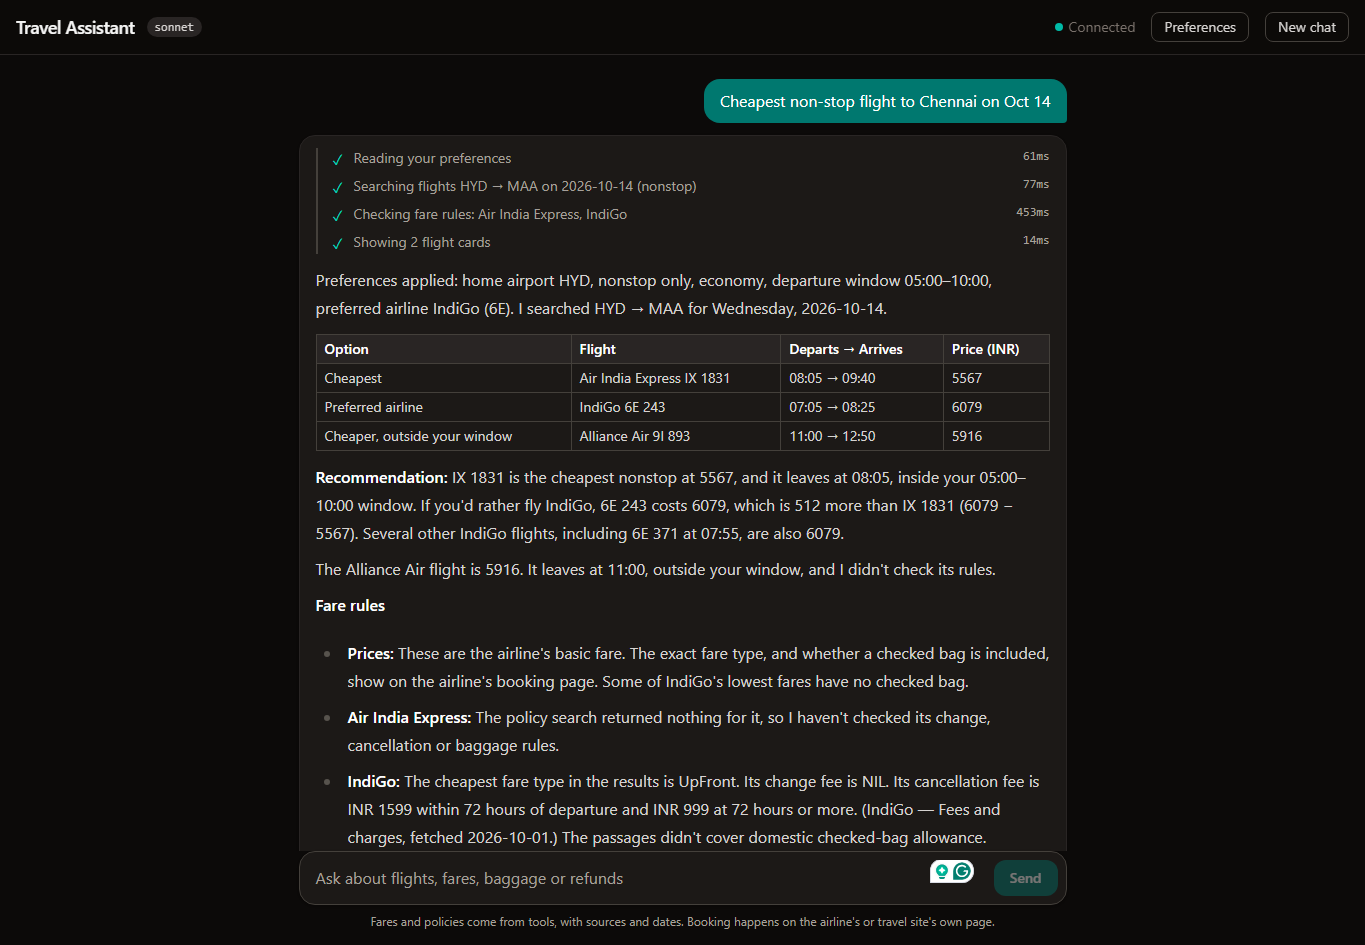
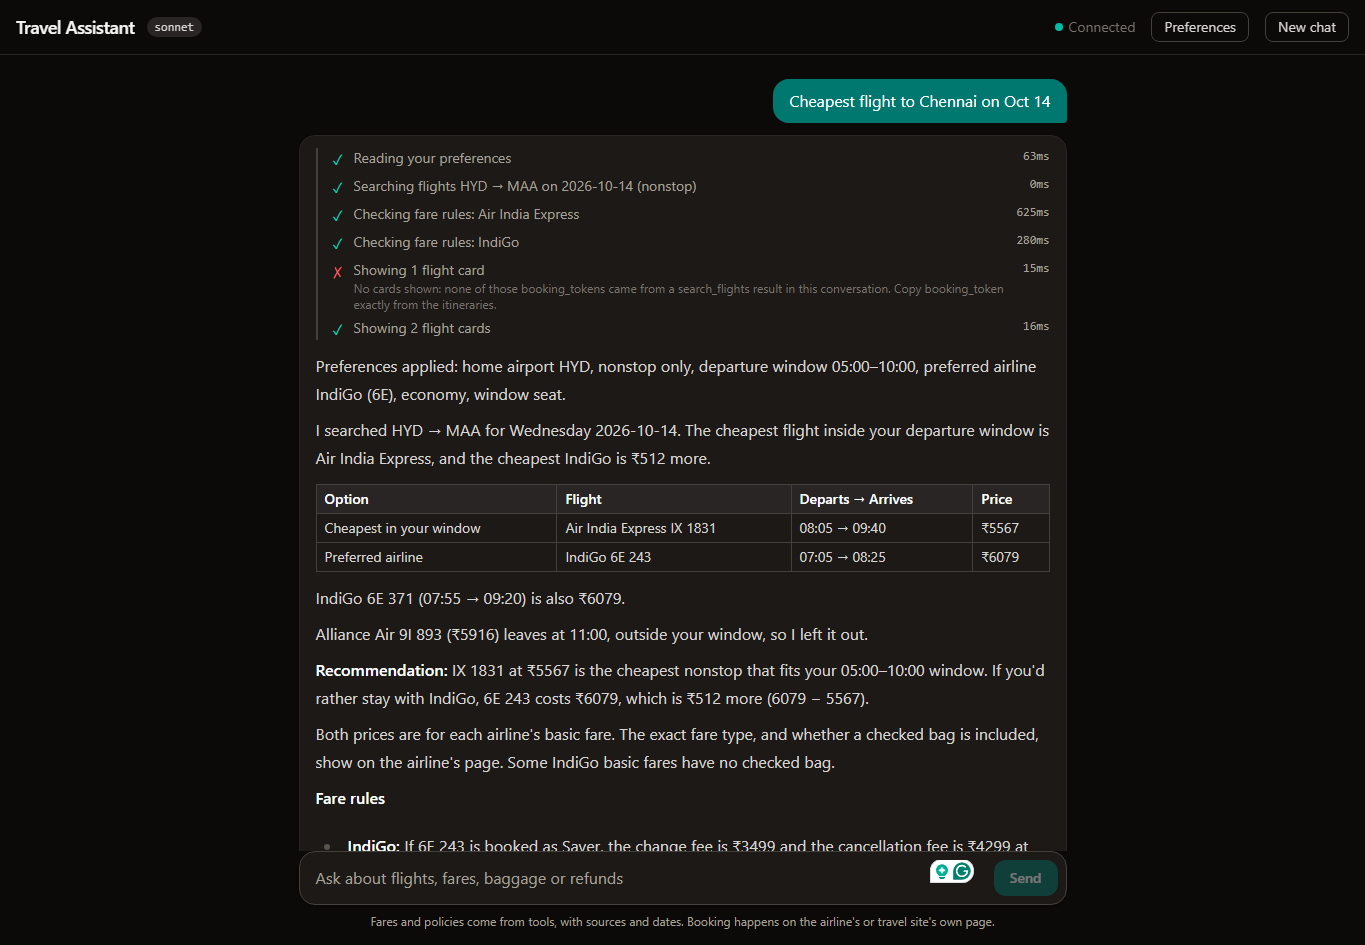
fix: key flight cards by flight number; shorter search cache; new screenshots
From the latest real run:
- The model garbled a long booking_token, so its first show_flight_cards call
  was rejected (grounding worked, but cost a retry). show_flight_cards now takes
  flight numbers ("6E 243", "6E 243, 6E 512"), matched against this
  conversation's search results (latest search wins); booking_token still works.
  Duplicate itineraries in one call collapse to one card.
- The search was a cache hit ~29 min old, so its cards were born nearly expired.
  Default search cache is now 20 min, leaving 10+ min on the ~30-min links.
- README: preferences panel screenshot, refreshed answer/cards screenshots
  (Saver fee now correct), caption explaining the rejected card step.

Claude-Session: https://claude.ai/code/session_01QP7JMiB12MUZHodQPm79G6

Changed region(s): [[0.2154, 0.2455, 0.7692, 0.9206], [0.4923, 0.0614, 0.6462, 0.1534], [0.4308, 0.2148, 0.4615, 0.2455]]

diff --git a/agent/src/travel_agent/ui_tools.py b/agent/src/travel_agent/ui_tools.py
@@ -1,13 +1,14 @@
 """Display-only tools for the web UI, served in-process (Claude Agent SDK MCP server "ui").
 
-show_flight_cards: the agent picks which itineraries to show and adds a short label/note. Every
-fact on a card (airline, times, price, booking token) is filled in from the actual search_flights
-result. The agent can't put a wrong price or an invented booking link on a card: unknown tokens
-are rejected. Booking links themselves are fetched only when the user clicks.
+show_flight_cards: the agent picks which itineraries to show (by flight number, or booking token)
+and adds a short label/note. Every fact on a card (airline, times, price, booking token) is filled in
+from the actual search_flights result. The agent can't put a wrong price or an invented booking link
+on a card: flights that aren't in this conversation's results are rejected. Booking links themselves are fetched only when the user clicks.
 """
 from __future__ import annotations
 
 import json
+import re
 from collections.abc import Callable
 from typing import Any
 
@@ -43,11 +44,33 @@ def _texts(response: Any) -> list[str]:
     return []
 
 
+def _norm_flights(text: str) -> str:
+    """'6E 243 + 6E-500' -> '6E243,6E500' so flight numbers compare regardless of spacing."""
+    return ",".join(a + n for a, n in re.findall(r"\b([A-Z0-9]{2})[\s-]?(\d{1,4})\b", text.upper()))
+
+
 class SearchRegistry:
     """Itineraries seen in this session's search_flights results, keyed by booking_token."""
 
     def __init__(self) -> None:
         self.by_token: dict[str, dict[str, Any]] = {}
+
+    def find(self, booking_token: str = "", flight: str = "") -> tuple[str, dict[str, Any]] | None:
+        """Look up by exact booking_token, else by flight number(s) (latest search wins).
+
+        Booking tokens are long opaque strings and models occasionally mangle them when copying,
+        while flight numbers are short and also unique within one search."""
+        token = booking_token.strip()
+        if token in self.by_token:
+            return token, self.by_token[token]
+        want = _norm_flights(flight)
+        if not want:
+            return None
+        for tok, entry in reversed(self.by_token.items()):
+            segs = entry["itinerary"].get("segments") or []
+            if _norm_flights(" ".join(str(x.get("flight_number", "")) for x in segs)) == want:
+                return tok, entry
+        return None
 
     def record(self, tool_input: dict[str, Any], tool_response: Any) -> int:
         added = 0
@@ -76,7 +99,8 @@ def build_ui_server(registry: SearchRegistry, emit: Callable[[dict], Any]):
     @tool(
         "show_flight_cards",
         "Show 1-3 shortlisted flights to the user as cards with a 'See booking options' button. "
-        "Pass each itinerary's booking_token exactly as search_flights returned it, plus a short label "
+        "Identify each itinerary by its flight number(s) as search_flights returned them (e.g. '6E 243', "
+        "or '6E 243, 6E 512' for a connection); booking_token also works if copied exactly. Add a short label "
         "(e.g. 'Cheapest', 'Best timing') and a one-line note (e.g. the cancellation fee with its source). "
         "Airline, times and price are filled in from the search result automatically.",
         {
@@ -87,11 +111,11 @@ def build_ui_server(registry: SearchRegistry, emit: Callable[[dict], Any]):
                     "items": {
                         "type": "object",
                         "properties": {
+                            "flight": {"type": "string", "description": "flight number(s), e.g. '6E 243'"},
                             "booking_token": {"type": "string"},
                             "label": {"type": "string", "maxLength": 40},
                             "note": {"type": "string", "maxLength": 240},
                         },
-                        "required": ["booking_token"],
                     },
                 }
             },
@@ -101,23 +125,25 @@ def build_ui_server(registry: SearchRegistry, emit: Callable[[dict], Any]):
     async def show_flight_cards(args: dict[str, Any]) -> dict[str, Any]:
         cards, unknown = [], []
         for f in args.get("flights") or []:
-            entry = registry.by_token.get(str(f.get("booking_token", "")).strip())
-            if not entry:
-                unknown.append(f.get("label") or "unlabelled")
+            found = registry.find(str(f.get("booking_token") or ""), str(f.get("flight") or ""))
+            if not found:
+                unknown.append(f.get("flight") or f.get("label") or "unlabelled")
                 continue
-            cards.append({**entry, "label": f.get("label"), "note": f.get("note"),
-                          "booking_token": f["booking_token"]})
+            token, entry = found
+            if any(c["booking_token"] == token for c in cards):
+                continue
+            cards.append({**entry, "label": f.get("label"), "note": f.get("note"), "booking_token": token})
         if not cards:
             return {"content": [{"type": "text", "text":
-                    "No cards shown: none of those booking_tokens came from a search_flights result in "
-                    "this conversation. Copy booking_token exactly from the itineraries."}], "is_error": True}
+                    "No cards shown: none of those flights came from a search_flights result in this "
+                    "conversation. Use flight numbers exactly as the itineraries list them."}], "is_error": True}
         result = emit({"type": "flight_cards", "cards": cards})
         if hasattr(result, "__await__"):
             await result
         msg = (f"Showed {len(cards)} card(s). The user can click 'See booking options' to get airline/"
                "travel-site links; don't write booking URLs yourself.")
         if unknown:
-            msg += f" Skipped (unknown booking_token): {', '.join(unknown)}."
+            msg += f" Skipped (not in this conversation's search results): {', '.join(unknown)}."
         return {"content": [{"type": "text", "text": msg}]}
 
     return create_sdk_mcp_server(UI_SERVER, tools=[show_flight_cards]), show_flight_cards

diff --git a/agent/tests/test_ui_tools.py b/agent/tests/test_ui_tools.py
@@ -4,7 +4,7 @@ from travel_agent.config import AgentConfig
 from travel_agent.guard import ToolGuard
 from travel_agent.hooks import AgentHooks
 from travel_agent.runner import TravelAgent, build_options
-from travel_agent.ui_tools import SearchRegistry, build_ui_server
+from travel_agent.ui_tools import SearchRegistry, _norm_flights, build_ui_server
 
 RESULT = {
     "origin": "HYD", "destination": "MAA", "date": "2026-10-17", "return_date": None, "currency": "INR",
@@ -45,7 +45,7 @@ async def test_cards_use_search_facts_and_reject_unknown_tokens():
         {"booking_token": "tok-6e243-aaaaaaaa", "label": "Best timing", "note": "Saver: cancel ₹4,299 (72h+)"},
         {"booking_token": "tok-made-up-zzzz", "label": "Invented"},
     ]})
-    assert not ok.get("is_error") and "Skipped (unknown booking_token): Invented" in ok["content"][0]["text"]
+    assert not ok.get("is_error") and "Skipped (not in this conversation's search results): Invented" in ok["content"][0]["text"]
     card = events[0]["cards"][0]
     assert events[0]["type"] == "flight_cards" and len(events[0]["cards"]) == 1
     assert card["itinerary"]["price"] == 7069 and card["label"] == "Best timing" and card["links_valid_minutes"] == 30
@@ -80,3 +80,25 @@ def test_web_mode_options(monkeypatch):
     cli = build_options(AgentConfig(), ToolGuard())
     assert "ui" not in cli.mcp_servers and "show_flight_cards" not in cli.system_prompt
     assert "mcp__travel__get_booking_options" not in cli.allowed_tools
+
+
+async def test_cards_by_flight_number_tolerate_spacing_and_dedupe():
+    reg = SearchRegistry()
+    reg.record({}, RESULT)
+    events = []
+    _, card_tool = build_ui_server(reg, events.append)
+    r = await card_tool.handler({"flights": [
+        {"flight": "6e243", "label": "Preferred"},
+        {"booking_token": "tok-6e243-aaaaaaaa"},          # same itinerary again -> one card
+        {"flight": "AI 999", "label": "Not searched"},
+    ]})
+    cards = events[0]["cards"]
+    assert [c["booking_token"] for c in cards] == ["tok-6e243-aaaaaaaa"] and cards[0]["itinerary"]["price"] == 7069
+    assert "AI 999" in r["content"][0]["text"]
+    assert reg.find(flight="") is None and reg.find("garbled-token") is None
+
+
+def test_flight_number_normalisation():
+    assert _norm_flights("6E 243") == _norm_flights("6e-243") == _norm_flights("6E243") == "6E243"
+    assert _norm_flights("6E 243 + 6E 512") == _norm_flights("6E243, 6E512") == "6E243,6E512"
+    assert _norm_flights("9I 893") == "9I893" and _norm_flights("cheapest") == ""

diff --git a/agent/src/travel_agent/prompts.py b/agent/src/travel_agent/prompts.py
@@ -69,7 +69,8 @@ Never invent prices, fees, times or rules. Prices are INR; times are local airpo
 WEB_ADDENDUM = """
 ## Web UI
 You're talking to the user in a browser. After you pick your shortlist, call show_flight_cards
-with 1-3 itineraries: pass each booking_token exactly as search_flights returned it, a short label
+with 1-3 itineraries: identify each by its flight number(s) as search_flights listed them
+(e.g. "6E 243"; for a connection "6E 243, 6E 512"), plus a short label
 ("Cheapest", "Best timing", "Most flexible") and a one-line note (e.g. the cancellation fee and its
 source). The cards show airline, times and price from the search, and a "See booking options"
 button that opens the airline's (or a travel site's) page with the flight preselected. Call it

diff --git a/mcp-server/src/travel_mcp/config.py b/mcp-server/src/travel_mcp/config.py
@@ -24,7 +24,7 @@ class Settings:
     airlabs_monthly_budget: int = 1000
     budget_stop_ratio: float = 0.9
     # Cache TTLs in seconds
-    search_ttl: int = 30 * 60
+    search_ttl: int = 20 * 60  # booking links last ~30 min; reuse leaves >=10 min on them
     status_ttl: int = 5 * 60
 
     @classmethod
@@ -44,5 +44,5 @@ class Settings:
             airlabs_monthly_budget=int(os.getenv("AIRLABS_MONTHLY_BUDGET", 1000)),
             prefs_dir=Path(p) if (p := os.getenv("TRAVEL_MCP_PREFS_DIR")) else None,
             # Evals pin search results for a day so repeated runs are free and comparable.
-            search_ttl=int(os.getenv("TRAVEL_MCP_SEARCH_TTL", 30 * 60)),
+            search_ttl=int(os.getenv("TRAVEL_MCP_SEARCH_TTL", 20 * 60)),
         )

diff --git a/CLAUDE.md b/CLAUDE.md
@@ -14,7 +14,7 @@ server design, RAG, agent construction and evals. Full docs are in `docs/` (star
 - [x] Evals: 21 cases, deterministic checks incl. ₹ grounding. Latest 2026-10-03b: sonnet 18/18, haiku 15/18 (evals/baselines/README.md)
 - [x] Post-baseline fixes: prompt hardening (prefs line, required DGCA call, exact arithmetic), max_price drops unpriced/over-budget + notes. Re-run done (sonnet 18/18)
 - [x] React chat UI (ui/) + FastAPI WebSocket backend (travel-agent web) with live tool activity
-- [x] Preferences panel (direct edit via REST → MCP bridge); flight cards grounded by booking_token, booking redirect to seller (get_booking_options on click only), expiry countdowns
+- [x] Preferences panel (direct edit via REST → MCP bridge); flight cards grounded in search results (by flight number or booking_token), booking redirect to seller (get_booking_options on click only), expiry countdowns
 - [ ] Run scripts/probe_booking.py to confirm airline-direct sellers; use booking fare types in answers
 - [ ] Missing IX/SG/9I policy sources; 2026 DGCA refund CAR
 - [ ] Booking via sandbox BookingProvider (no bookable API for individuals in India)
@@ -58,7 +58,7 @@ docs/         architecture, repo-map, development, mcp-server, rag, agent, ui, e
   (preferences now, booking later) needs explicit user approval.
 - The agent reaches the server only over MCP; never import travel_mcp from travel_agent.
 - Web backend binds 127.0.0.1 and checks Origin on WebSocket and REST; keep it local-only.
-- Cards: agent passes booking_tokens only; backend fills facts from recorded search results. Agent may never call get_booking_options (AGENT_DENIED); links fetched on user click only.
+- Cards: agent passes flight numbers (or booking_tokens) only; backend fills facts from recorded search results. Agent may never call get_booking_options (AGENT_DENIED); links fetched on user click only.
 - Commit messages end with the Co-Authored-By / Claude-Session lines when Claude commits.
 
 ## Commands

diff --git a/README.md b/README.md
@@ -11,19 +11,27 @@ suite. It's built with **MCP**, **RAG**, the **Claude Agent SDK** and determinis
 A real run in the web UI: "Cheapest non-stop flight to Chennai on Oct 14", with saved preferences
 (home HYD, nonstop, 05:00–10:00, prefers IndiGo).
 
-**1. Live tool activity, preferences applied, shortlist and fare rules with sources**
+**1. Preferences: pick airports and airlines by name; every search uses them**
+
+![Preferences panel](docs/images/preferences.png)
+
+**2. Live tool activity, preferences applied, shortlist and fare rules with sources**
 
 ![Chat answer](docs/images/chat-answer.png)
 
-**2. Flight cards filled from the real search result, with fare expiry**
+The ✗ step is the grounding check at work: the model garbled a booking token, the backend refused
+to show a card for a flight that wasn't in the search results, and the model retried. Cards are now
+keyed by flight number, which is harder to garble.
+
+**3. Flight cards filled from the real search result, with fare expiry**
 
 ![Flight cards](docs/images/chat-cards.png)
 
-**3. "See booking options": airline direct first, then travel sites, with link expiry**
+**4. "See booking options": airline direct first, then travel sites, with link expiry**
 
 ![Booking options](docs/images/booking-options.png)
 
-**4. "Book on IndiGo" opens the airline's page with 6E 243 already selected**
+**5. "Book on IndiGo" opens the airline's page with 6E 243 already selected**
 
 ![IndiGo booking page](docs/images/airline-redirect.png)
 

diff --git a/docs/mcp-server.md b/docs/mcp-server.md
@@ -40,7 +40,7 @@ src/travel_mcp/
 
 | Provider | Free plan | Local budget stop | Cache TTL |
 |---|---|---|---|
-| SerpApi | ~250 searches/month | 90 % (225) | 30 min (24 h during evals) |
+| SerpApi | ~250 searches/month | 90 % (225) | 20 min (24 h during evals) |
 | AirLabs | 1,000 queries/month (key expires 2026-10-30) | 90 % (900) | 5 min |
 
 - Only real network calls count against the budget. Cache hits are free, and so are network errors that never reached the API.
@@ -66,7 +66,7 @@ plane). `collapse_codeshares` merges them into the operating flight's `marketed_
 |---|---|---|
 | `TRAVEL_MCP_DATA_DIR` | `<repo>/.data` | Where the cache, index, models and preferences live |
 | `TRAVEL_MCP_PREFS_DIR` | data dir | Evals give each case its own preferences |
-| `TRAVEL_MCP_SEARCH_TTL` | 1800 | Evals pin search results for 24 h |
+| `TRAVEL_MCP_SEARCH_TTL` | 1200 | 20 min, so a reused result still has 10+ min left on its ~30-min booking links. Evals pin results for 24 h |
 | `SERPAPI_MONTHLY_BUDGET` / `AIRLABS_MONTHLY_BUDGET` | 250 / 1000 | Change if you upgrade a plan |
 
 ## Tests

diff --git a/docs/agent.md b/docs/agent.md
@@ -38,9 +38,10 @@ The guard runs before the permission check, so it can deny even auto-allowed too
 ## Web mode (`ui_tools.py`)
 
 `TravelAgent(..., ui=True)` (which `travel-agent web` uses) adds an in-process MCP server `ui` with
-`show_flight_cards`, plus a prompt section on using it. The agent passes only `booking_token`s, a
-label and a note. The backend fills each card from the recorded search result and rejects unknown
-tokens. The guard's `AGENT_DENIED` list stops the agent calling `get_booking_options`: booking links
+`show_flight_cards`, plus a prompt section on using it. The agent passes only flight numbers (or
+`booking_token`s), a label and a note. The backend fills each card from the recorded search result
+and rejects flights that weren't in this conversation's results. Flight numbers replaced tokens as
+the main key after a real run where the model garbled a long token while copying it. The guard's `AGENT_DENIED` list stops the agent calling `get_booking_options`: booking links
 are fetched only on a user click.
 
 ## Traces (`trace.py`)

diff --git a/docs/ui.md b/docs/ui.md
@@ -41,8 +41,9 @@ and Claude Desktop because they're stored in the same file.
 ## How a card gets its facts (and why they can't be made up)
 
 1. The agent calls `show_flight_cards` (an in-process display tool, web mode only) with
-   `booking_token`s, a label and a note. It never passes prices or times.
-2. The backend looks each token up among this conversation's real `search_flights` results, which
+   flight numbers such as "6E 243" (or `booking_token`s), a label and a note. It never passes
+   prices or times.
+2. The backend looks each flight up among this conversation's real `search_flights` results, which
    the PostToolUse hook records, and fills in the airline, times, price and fetch time from there.
    Unknown tokens are rejected and the agent is told why. If the agent shows the same itinerary
    twice, the reducer replaces the earlier card instead of adding a duplicate. Cards render below
